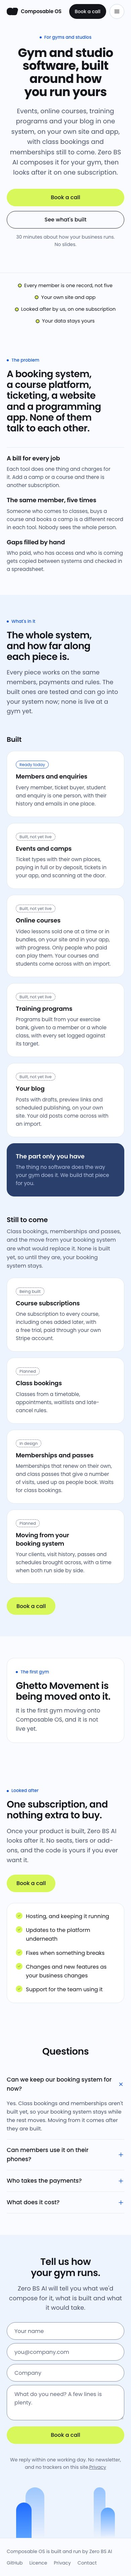
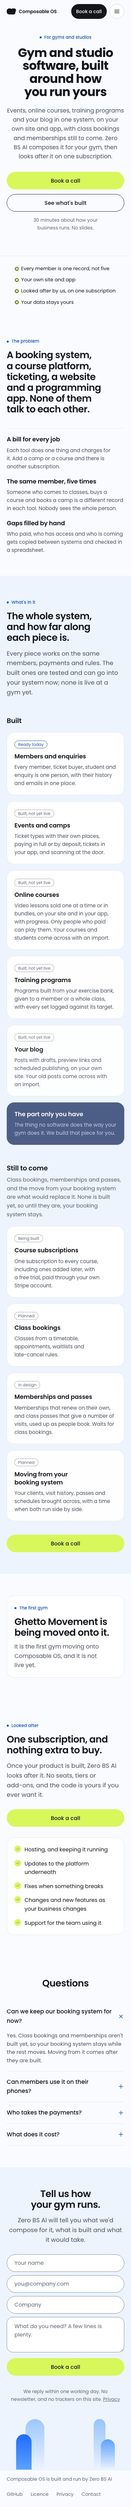
Site: polish both pages for phones
Header fits 320-400px (logo no longer runs under the action), the hero's
picture shows the whole change card, facts line up, standalone actions are
full width, What's inside cards are compact, commands wrap instead of
scrolling out of sight, footer links are 44px targets, hyphenated words
don't break at the hyphen, the form's email field has the right keyboard
hints, and the missing space before Privacy is back. The landing spec now
checks overflow at 320/360/740x360, header overlap and tap targets, and the
form's font size.

Changed region(s): [[0.0308, 0.0, 0.9538, 0.9977], [0.8308, 0.873, 0.8615, 0.9042], [0.7385, 0.2494, 0.7692, 0.2806]]

diff --git a/apps/marketing/e2e/landing.spec.ts b/apps/marketing/e2e/landing.spec.ts
@@ -3,7 +3,7 @@
 // without JavaScript, the layout holds at phone, tablet and desktop widths, and the metadata is
 // served.
 import { randomUUID } from "node:crypto";
-import { expect, test } from "@playwright/test";
+import { expect, type Locator, test } from "@playwright/test";
 import { SOLUTIONS } from "../src/solutions.ts";
 import { STATUS } from "../src/status.ts";
 
@@ -124,9 +124,16 @@ test.describe("the call form", () => {
 test.describe("layout", () => {
   const paths = ["/", ...SOLUTIONS.map((solution) => `/solutions/${solution.slug}/`)];
   for (const path of paths)
-    for (const width of [390, 834, 1280]) {
-      test(`no horizontal overflow on ${path} at ${width}px`, async ({ page }) => {
-        await page.setViewportSize({ width, height: 900 });
+    for (const [width, height] of [
+      [320, 640],
+      [360, 740],
+      [390, 844],
+      [740, 360],
+      [834, 1100],
+      [1280, 900],
+    ] as const) {
+      test(`no horizontal overflow on ${path} at ${width}x${height}`, async ({ page }) => {
+        await page.setViewportSize({ width, height });
         await page.goto(path);
         // html and body clip overflow, so check every element against the viewport, skipping
         // anything inside a container that scrolls or clips on purpose (the frame's rounded sheet,
@@ -278,4 +285,80 @@ test("the header fits a narrow phone", async ({ page }) => {
   const menu = await page.getByRole("button", { name: "Open menu" }).boundingBox();
   expect(menu && menu.x + menu.width).toBeLessThanOrEqual(360);
   expect(await page.evaluate(() => document.documentElement.scrollWidth)).toBeLessThanOrEqual(360);
+});
+
+// What a thumb needs on a phone: nothing in the header overlaps, every control is at least 44px
+// tall, form fields are at least 16px (or iOS zooms in on focus), and the commands wrap instead of
+// scrolling out of sight.
+test.describe("on a phone", () => {
+  const paths = ["/", ...SOLUTIONS.map((solution) => `/solutions/${solution.slug}/`)];
+  for (const path of paths)
+    for (const width of [320, 360, 390]) {
+      test(`${path} at ${width}px: the header's logo, action and menu sit side by side, 44px tall`, async ({
+        page,
+      }) => {
+        await page.setViewportSize({ width, height: 740 });
+        await page.goto(path);
+        const header = page.locator("header.site");
+        const box = async (locator: Locator) => {
+          const found = await locator.boundingBox();
+          if (!found) throw new Error("not rendered");
+          return found;
+        };
+        const logo = await box(header.locator(".logo"));
+        const action = await box(header.getByRole("link", { name: CTA }));
+        const menu = await box(header.getByRole("button", { name: "Open menu" }));
+        // The logo's box can shrink while its name spills under the action, so check both.
+        expect(
+          await header.locator(".logo").evaluate((el) => el.scrollWidth <= el.clientWidth),
+        ).toBe(true);
+        expect(logo.x + logo.width).toBeLessThanOrEqual(action.x);
+        expect(action.x + action.width).toBeLessThanOrEqual(menu.x);
+        expect(menu.x + menu.width).toBeLessThanOrEqual(width);
+        expect(action.height).toBeGreaterThanOrEqual(44);
+        expect(menu.height).toBeGreaterThanOrEqual(44);
+      });
+    }
+
+  test("the call form's fields are 16px text and 44px targets, with the right keyboards", async ({
+    page,
+  }) => {
+    await page.setViewportSize({ width: 360, height: 740 });
+    await page.goto("/#call");
+    const form = page.locator("form[data-form]");
+    for (const control of await form.locator("input:visible, textarea, button").all()) {
+      const box = await control.boundingBox();
+      expect(box?.height).toBeGreaterThanOrEqual(44);
+      const size = await control.evaluate((el) => Number.parseFloat(getComputedStyle(el).fontSize));
+      expect(size).toBeGreaterThanOrEqual(16);
+    }
+    const email = form.getByLabel("Work email");
+    await expect(email).toHaveAttribute("type", "email");
+    await expect(email).toHaveAttribute("autocomplete", "email");
+    await expect(email).toHaveAttribute("autocapitalize", "off");
+    await expect(form.getByLabel("Your name")).toHaveAttribute("autocomplete", "name");
+    await expect(form.getByLabel("Company")).toHaveAttribute("autocomplete", "organization");
+  });
+
+  test("the footer's links are 44px targets", async ({ page }) => {
+    await page.setViewportSize({ width: 360, height: 740 });
+    await page.goto("/");
+    for (const link of await page
+      .getByRole("navigation", { name: "Footer" })
+      .getByRole("link")
+      .all())
+      expect((await link.boundingBox())?.height).toBeGreaterThanOrEqual(44);
+  });
+
+  test("the commands wrap instead of scrolling sideways", async ({ page }) => {
+    await page.setViewportSize({ width: 320, height: 640 });
+    await page.goto("/");
+    const term = page.locator(".term");
+    expect(await term.evaluate((el) => el.scrollWidth <= el.clientWidth)).toBe(true);
+    // Copying the block still gives one command per line.
+    // biome-ignore lint/performance/useDomNodeTextContent: the lines are blocks; only the rendered text has their line breaks.
+    expect((await term.innerText()).split("\n")[1]).toBe(
+      '$ npm create composable-os harbour -- --label "Harbour Roasters"',
+    );
+  });
 });

diff --git a/apps/marketing/src/styles/landing.css b/apps/marketing/src/styles/landing.css
@@ -548,7 +548,18 @@ h2.wide {
     Menlo,
     monospace;
   overflow-x: auto;
-  white-space: pre;
+  /* A long command wraps between words, never inside one, and hangs under its first line, so
+     nothing scrolls out of sight at any width. */
+  white-space: pre-wrap;
+  overflow-wrap: anywhere;
+}
+.term .l {
+  display: block;
+  padding-left: 2ch;
+  text-indent: -2ch;
+}
+.term .w {
+  white-space: nowrap;
 }
 .term .c {
   color: #8c9bbb;
@@ -664,6 +675,9 @@ h2.wide {
 .final .fine {
   margin-top: 4px;
 }
+.nowrap {
+  white-space: nowrap;
+}
 .final .stage {
   height: 150px;
   margin-top: 48px;
@@ -735,5 +749,76 @@ h2.wide {
   }
   .final {
     padding-top: 64px;
+  }
+}
+
+/* Phones: the same page, set for one column and a thumb. */
+@media (max-width: 600px) {
+  .hero .lead {
+    font-size: 17px;
+  }
+  .hero .lead,
+  .hero .fine,
+  .final .fine {
+    text-wrap: balance;
+  }
+  /* The picture: the change waiting for approval spans the board's width and sits at its foot,
+     so its buttons are in the picture and the first orders show above it. */
+  .app {
+    height: 440px;
+  }
+  .change {
+    left: 12px;
+    right: 12px;
+    top: auto;
+    bottom: 14px;
+    width: auto;
+  }
+  /* The facts read as a list: their dots line up in one column, centred as a block. */
+  .facts ul {
+    display: grid;
+    justify-content: center;
+    justify-items: start;
+    gap: 10px;
+  }
+  /* Every action that stands alone in a column is as wide as the column, as in the hero. */
+  .split .btn,
+  .group-cta {
+    width: 100%;
+  }
+  .steps li {
+    gap: 14px;
+  }
+  .steps .n {
+    width: 36px;
+    height: 36px;
+  }
+  /* What's inside: the icon beside its title, so six cards take half the scroll. */
+  #inside .card {
+    display: grid;
+    grid-template-columns: 42px 1fr;
+    column-gap: 16px;
+    align-items: center;
+  }
+  #inside .ic {
+    margin-bottom: 0;
+  }
+  #inside .card p {
+    grid-column: 1 / -1;
+    margin-top: 12px;
+  }
+  .first {
+    padding: 26px 22px;
+  }
+  .band {
+    padding: 36px 22px;
+  }
+  .term {
+    padding: 20px;
+    font-size: 12.5px;
+    line-height: 1.75;
+  }
+  .call textarea {
+    border-radius: 18px;
   }
 }

diff --git a/apps/marketing/src/styles/base.css b/apps/marketing/src/styles/base.css
@@ -494,6 +494,66 @@ footer a {
     padding: 64px 0;
   }
 }
+/* Phones. The cards lose a little padding so their text gets the width, and every link a thumb
+   is meant to hit is at least 44px tall. */
+@media (max-width: 600px) {
+  .card {
+    padding: 22px;
+  }
+  footer nav {
+    gap: 0 24px;
+  }
+  footer nav a {
+    display: inline-flex;
+    align-items: center;
+    min-height: 44px;
+  }
+  footer {
+    padding: 16px 0 calc(16px + env(safe-area-inset-bottom));
+  }
+}
+/* A narrow phone: the logo, the action and the menu button share 320 to 400px, so each gives a
+   little. Below 360px the mark goes and the name stays. */
+@media (max-width: 400px) {
+  .nav {
+    gap: 8px;
+  }
+  .logo {
+    font-size: 14px;
+  }
+  .logo svg {
+    width: 28px;
+    height: 18px;
+  }
+  .nav .btn {
+    padding: 0 14px;
+  }
+}
+/* The smallest phones: the headline steps down so the hero's action is nearer the first screen. */
+@media (max-width: 374px) {
+  h1 {
+    font-size: 32px;
+  }
+}
+@media (max-width: 359px) {
+  .nav .logo svg {
+    display: none;
+  }
+}
+/* A phone on its side: a shorter bar leaves more of the 360px for the page. */
+@media (max-width: 980px) and (max-height: 480px) {
+  .nav {
+    height: 60px;
+  }
+  .js .mobile-menu {
+    inset: 60px 0 auto 0;
+    max-height: calc(100vh - 60px);
+    overflow-y: auto;
+  }
+  html {
+    scroll-padding-top: 76px;
+  }
+}
 @media (prefers-reduced-motion: reduce) and (max-width: 980px) {
   .js .mobile-menu {
     transform: none;
